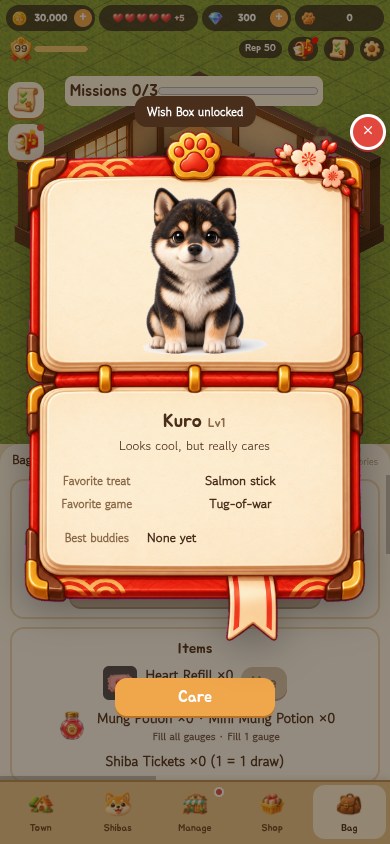
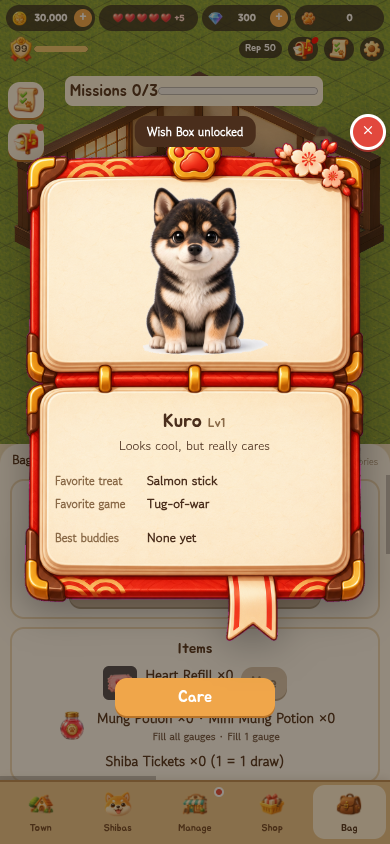
i18n: 프로필 친한 시바 줄을 간식·놀이 줄과 같은 시작 위치로 왼쪽 정렬, 토스트를 미션 막대 아래(top 116px)로 이동(ko/en); 스샷

Changed region(s): [[0.3385, 0.0924, 0.6769, 0.1848], [0.3692, 0.5545, 0.7077, 0.6161], [0.1231, 0.5545, 0.3385, 0.6469]]

diff --git a/start-room-3d/index.html b/start-room-3d/index.html
@@ -62,7 +62,7 @@ button.warn{background:#d9695a;box-shadow:0 2px 0 #9c4136}
 .gres{display:grid;grid-template-columns:repeat(5,1fr);gap:5px}.gres .gi{display:flex;flex-direction:column;align-items:center;font-size:9px;font-weight:800;text-align:center;line-height:1.15}
 .gres .gi img{width:100%;aspect-ratio:1;object-fit:cover;object-position:50% 30%;border-radius:10px;border:2px solid #f0a64a;background:#fff}.gres .gi.dup img{border-color:#ecd8b8;opacity:.8}
 input[type=text]{font:inherit;font-size:15px;padding:8px;border-radius:10px;border:2px solid #e3c9a3;width:100%}
-#toast{position:absolute;left:50%;top:96px;transform:translateX(-50%);background:#4a2e1c;color:#fff;font-weight:800;font-size:13px;padding:7px 12px;border-radius:12px;z-index:30;pointer-events:none;transition:opacity .3s;max-width:90%;text-align:center}
+#toast{position:absolute;left:50%;top:116px;transform:translateX(-50%);background:#4a2e1c;color:#fff;font-weight:800;font-size:13px;padding:7px 12px;border-radius:12px;z-index:30;pointer-events:none;transition:opacity .3s;max-width:90%;text-align:center}
 
 #scene{flex:none;height:calc(55% - 94px);background:#e9eddf}#isomap{width:100%;height:100%;display:block;touch-action:none}
 #mainMenu{flex:1;min-height:0;display:flex;flex-direction:column;background:#fffaf0;border-radius:20px 20px 0 0;z-index:2;box-shadow:0 -3px 10px #67765915}.main-tabs{display:flex;padding:10px 12px 0;gap:5px;border-bottom:1px solid #e5dac6}.main-tabs button{flex:1;background:transparent;color:#95856c;border-radius:10px 10px 0 0;box-shadow:none;font-size:13px;padding:10px}.main-tabs .active{background:#e7b65c;color:#533b22}.menu-heading{padding:12px 15px 8px;font-size:15px;font-weight:900}.menu-heading small{float:right;font-size:10px;font-weight:500;color:#a08b70;margin-top:4px}#menuList{overflow:auto;padding:0 12px 12px;flex:1;min-height:0}.menu-card{display:flex;align-items:center;gap:9px;border:1px solid #e9decb;border-radius:13px;background:#fffdf7;padding:8px;margin-bottom:7px;min-height:98px}.menu-card>img{width:64px;height:64px;object-fit:contain;border-radius:9px}.menu-info{display:flex;flex-direction:column;gap:3px;flex:1;min-width:0}.menu-info small{font-size:8px;color:#ad9777}.menu-info strong{font-size:12px}.menu-info span{font-size:9px;color:#947f62}.menu-action{width:75px;text-align:center;font-size:9px;color:#aa9273}.menu-action button{font-size:10px;padding:7px;line-height:1.5}.preparing{text-align:center;padding:55px;color:#ad9777}#panel{bottom:0}#pbody{min-height:0}#pbody>.card{flex-shrink:0}.gear{flex:none;width:30px;height:32px;padding:4px;background:transparent;box-shadow:none;color:#826b4e}.gear svg{width:22px;height:22px;display:block}.menu-action{width:90px}
@@ -203,7 +203,7 @@ small.fx{display:block;font-family:'Gowun Dodum',sans-serif;font-size:11px;opaci
 .profile-book{position:relative;width:100%;background:#fff8ea center/100% 100% no-repeat;border-radius:18px;box-shadow:0 10px 30px rgba(0,0,0,.35);overflow:visible}.profile-book .book-close{position:absolute;z-index:2}
 .book-art,.book-box{position:absolute;box-sizing:border-box;display:flex;flex-direction:column;justify-content:center;gap:4px;overflow:hidden}.book-intro h2{margin:0;font-size:17px}.book-intro h2 small{font-size:12px;color:#8a6a48}.book-intro p{margin:0;font-size:13px;line-height:1.3}.book-care button{width:100%;height:100%}.book-art{display:flex;align-items:center;justify-content:center}.book-art img{width:100%;height:100%;object-fit:contain}
 .book-text{display:flex;flex-direction:column;gap:6px;padding:4px 6px;overflow:hidden}.book-text h2{margin:0;font-size:18px}.book-text h2 small{font-size:13px;color:#8a6a48}.book-intro{margin:0;font-size:13px;line-height:1.35}
-.book-row{display:flex;align-items:center;gap:8px;font-size:13px;min-width:0}.book-row b{flex:none;color:#8a6a48;font-size:12px;width:84px}.book-row span{flex:1;min-width:0;white-space:normal;word-break:keep-all;font-weight:700}.book-friends{display:flex;gap:4px;flex-wrap:wrap}.book-friends button{padding:0;width:32px;height:32px;background:none;border:none}.book-friends img{width:100%;height:100%;object-fit:contain}
+.book-row{display:flex;align-items:center;gap:8px;font-size:13px;min-width:0}.book-row b{flex:none;color:#8a6a48;font-size:12px;width:84px;text-align:left}.book-row span{flex:1;min-width:0;text-align:left;white-space:normal;word-break:keep-all;font-weight:700}.book-friends{display:flex;justify-content:flex-start;gap:4px;flex-wrap:wrap}.book-friends button{padding:0;width:32px;height:32px;background:none;border:none}.book-friends img{width:100%;height:100%;object-fit:contain}
 .book-text>[data-act=careOpen]{margin-top:auto;align-self:stretch}
 .profile-book.has-frame{background-color:transparent;box-shadow:none;border-radius:0;filter:drop-shadow(0 8px 20px rgba(0,0,0,.35))}
 .q17-cooking{display:flex;flex-direction:column;gap:10px;text-align:center}.cook-list{display:flex;flex-direction:column;gap:6px}.cook-row{display:flex;align-items:center;gap:10px;justify-content:flex-start;padding:6px 10px;border-radius:12px}.cook-row>.slot,.cook-row>img:first-child{width:28px!important;height:28px!important;min-width:0!important;min-height:0!important;max-width:28px!important;padding:0!important;margin:0!important;flex:none!important;box-sizing:border-box}.cook-row{width:100%;min-height:0!important}.cook-row span{flex:1;text-align:left;font-weight:700}.cook-row.locked{opacity:.75}.cook-row.locked img{width:20px;height:20px}.cook-row[aria-pressed=true]{outline:3px solid #f0a040}
